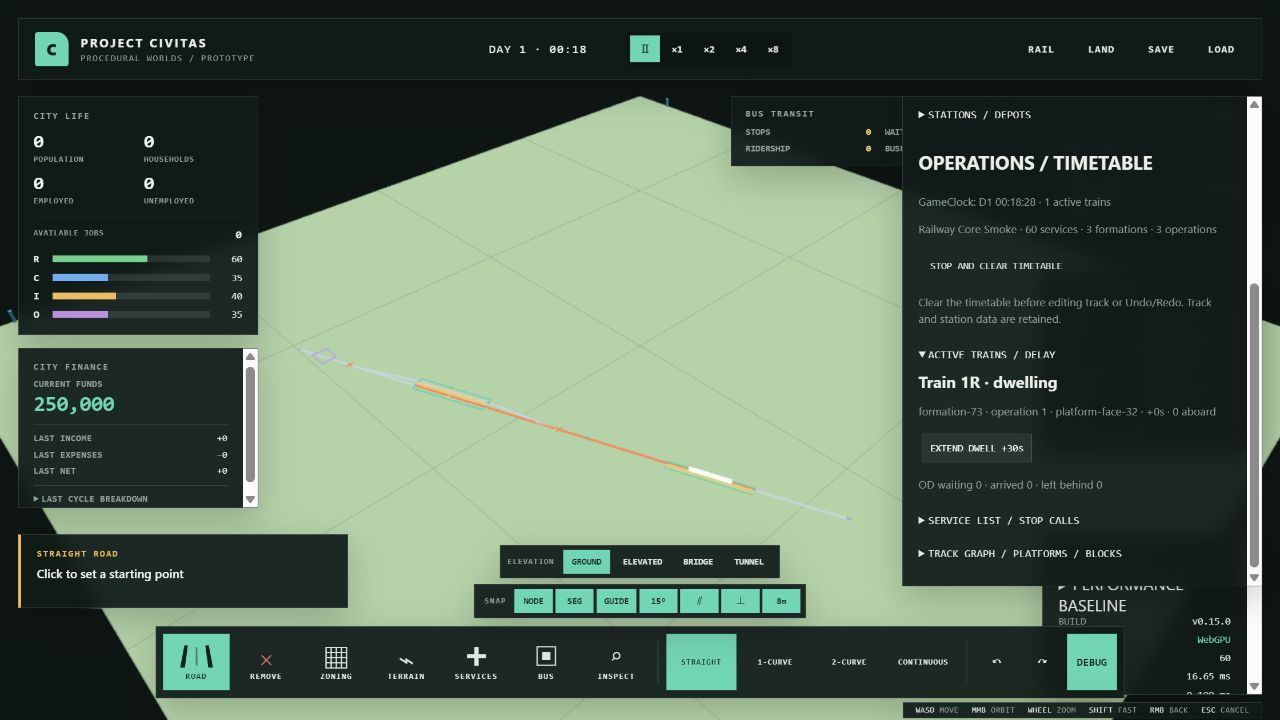
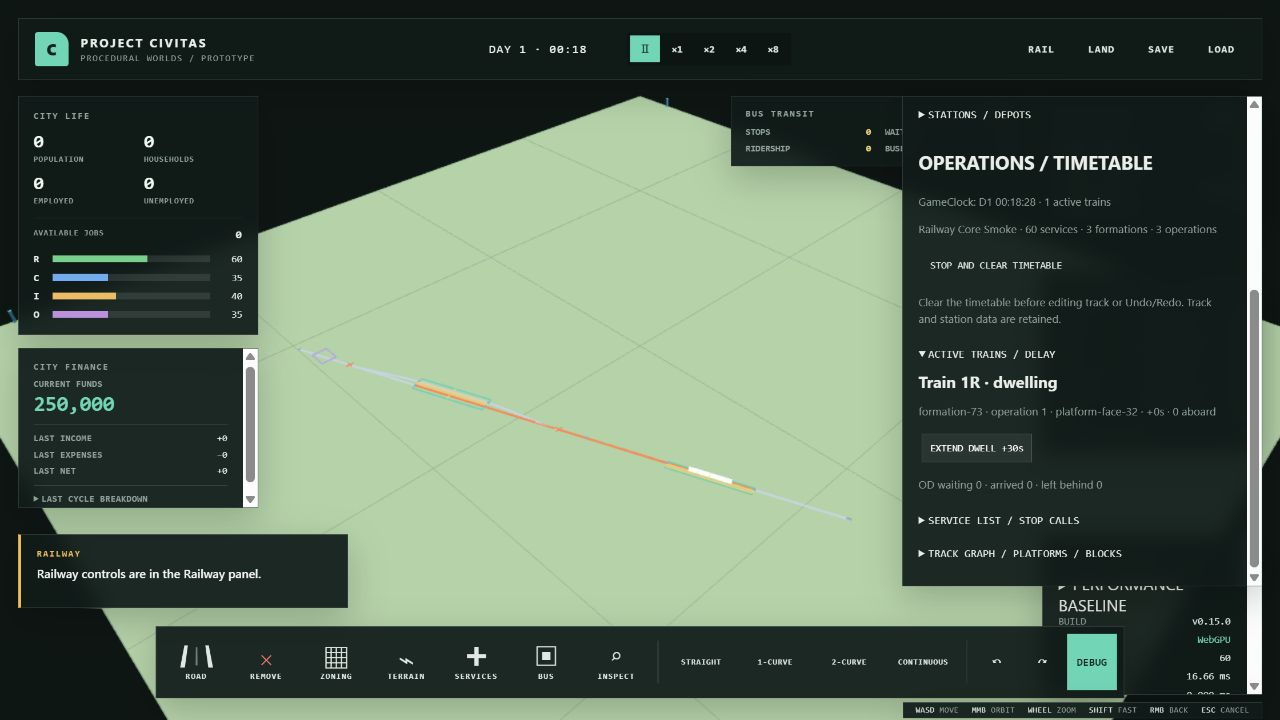
fix(railway): address review validation and cancellation regressions

Changed region(s): [[0.3438, 0.7333, 0.6562, 0.9778], [0.125, 0.8556, 0.1875, 0.9778], [0.0312, 0.7639, 0.2188, 0.825]]

diff --git a/src/railway/infrastructure.ts b/src/railway/infrastructure.ts
@@ -2,7 +2,7 @@ import { closestPointOnPolyline, distance, normalize, pointAtDistance, polylineL
 import { LandOwnership } from '../world/landOwnership';
 import type { Vec2 } from '../world/types';
 import type { TrackNode, TrackSegment, Junction, Station, Depot, RailwaySave, RailwaySnapshot, RailCommandData, RailBlock, PlatformFace } from './types';
-import { sampleTrackPath, collinearOverlap, TrackIndex, validateTrack } from './geometry';
+import { sampleTrackPath, collinearOverlap, TrackIndex, TrackEdgeIndex, validateTrack } from './geometry';
 
 export class RailwayInfrastructure {
   revision = 0;
@@ -15,6 +15,8 @@ export class RailwayInfrastructure {
   readonly depots = new Map<string, Depot>();
   readonly blocks = new Map<string, RailBlock>();
   readonly index = new TrackIndex();
+  private edges = new TrackEdgeIndex();
+  private faceIndex = new Map<string, { station: Station; face: PlatformFace; length: number }>();
   protected adjacency = new Map<string, string[]>();
   private nodeIndex = new Map<string, TrackNode[]>();
   ownership = new LandOwnership({ worldWidthMeters: 1024, worldDepthMeters: 1024 });
@@ -115,8 +117,7 @@ export class RailwayInfrastructure {
   }
   requireTrack(id: string) { const track = this.segments.get(id); if (!track) throw new Error('Track no longer exists.'); return track; }
   face(id: string): { station: Station; face: PlatformFace; length: number } {
-    for (const station of this.stations.values()) for (const platform of station.platforms) for (const face of platform.faces)
-      if (face.platformFaceId === id) return { station, face, length: platform.length };
+    const value = this.faceIndex.get(id); if (value) return value;
     throw new Error('Platform face no longer exists.');
   }
   fitsPlatform(faceId: string, formationLength: number): boolean { return Number.isFinite(formationLength) && formationLength > 0 && formationLength <= this.face(faceId).length; }
@@ -148,21 +149,16 @@ export class RailwayInfrastructure {
     const cuts = new Map<string, number[]>(), ownCuts = [0, polylineLength(points)]; let traversed = 0;
     for (let i = 1; i < points.length; i++) {
       const a = points[i - 1], b = points[i], legLength = distance(a, b);
-      for (const candidate of this.index.query(a, b)) {
-        const track = this.requireTrack(candidate.id); let along = 0;
-        for (let j = 1; j < track.points.length; j++) {
-          const c = track.points[j - 1], d = track.points[j], length = distance(c, d), hit = segmentIntersection(a, b, c, d);
-          if (collinearOverlap(a, b, c, d)) throw new Error('Track overlaps an existing track.');
-          if (hit) { ownCuts.push(traversed + legLength * hit.aT); const values = cuts.get(track.id) ?? []; values.push(along + length * hit.bT); cuts.set(track.id, values); }
-          along += length;
-        }
-        for (const endpoint of [points[0], points.at(-1)!]) {
-          const projection = closestPointOnPolyline(endpoint, track.points);
-          if (projection.distance < .01) { const values = cuts.get(track.id) ?? []; values.push(projection.along); cuts.set(track.id, values); }
-        }
-        if (track.points.some(p => closestPointOnPolyline(p, points).distance < .01) && points.every(p => closestPointOnPolyline(p, track.points).distance < .01)) throw new Error('Track overlaps an existing track.');
+      for (const edge of this.edges.query(a, b)) {
+        const [c, d] = edge.points, hit = segmentIntersection(a, b, c, d);
+        if (collinearOverlap(a, b, c, d)) throw new Error('Track overlaps an existing track.');
+        if (hit) { ownCuts.push(traversed + legLength * hit.aT); const values = cuts.get(edge.trackId) ?? []; values.push(edge.along + edge.length * hit.bT); cuts.set(edge.trackId, values); }
       }
       traversed += legLength;
+    }
+    for (const endpoint of [points[0], points.at(-1)!]) for (const track of this.index.query({ x: endpoint.x - .01, z: endpoint.z - .01 }, { x: endpoint.x + .01, z: endpoint.z + .01 })) {
+      const projection = closestPointOnPolyline(endpoint, track.points);
+      if (projection.distance < .01) { const values = cuts.get(track.id) ?? []; values.push(projection.along); cuts.set(track.id, values); }
     }
     for (const [id, values] of cuts) this.split(id, values);
     const values = this.uniqueCuts(ownCuts); const ids: string[] = [];
@@ -207,7 +203,9 @@ export class RailwayInfrastructure {
     const platforms: Station['platforms'] = [{ platformId: this.id('platform'), length, faces: [firstFace], outline: rectangle(command.template === 'island' ? 3 : -3, 1.5) }];
     const connectedTrackIds = [base];
     if (command.template !== 'single') {
-      const second = this.add([at(from, 6), at(to, 6)], track.trackTypeId); connectedTrackIds.push(second);
+      const parallel = [at(from, 6), at(to, 6)];
+      validateTrack(parallel, track.trackTypeId, this.height, this.ownership, this.waterAt);
+      const second = this.add(parallel, track.trackTypeId); connectedTrackIds.push(second);
       for (const approach of [true, false]) {
         const points = Array.from({ length: 21 }, (_, i) => { const t = i / 20, smooth = t * t * (3 - 2 * t); return approach ? at(from - 80 + t * 80, smooth * 6) : at(to + t * 80, (1 - smooth) * 6); });
         validateTrack(points, track.trackTypeId, this.height, this.ownership, this.waterAt); this.add(points, track.trackTypeId);
@@ -223,6 +221,8 @@ export class RailwayInfrastructure {
     this.nodeIndex.clear(); for (const node of this.nodes.values()) { const key = `${Math.round(node.position.x * 100)}:${Math.round(node.position.z * 100)}`, bucket = this.nodeIndex.get(key) ?? []; bucket.push(node); this.nodeIndex.set(key, bucket); }
     this.adjacency.clear(); for (const track of this.segments.values()) for (const node of [track.startNodeId, track.endNodeId]) { const ids = this.adjacency.get(node) ?? []; ids.push(track.id); this.adjacency.set(node, ids); }
     this.index.rebuild(this.segments.values());
+    this.edges.rebuild(this.segments.values());
+    this.faceIndex.clear(); for (const station of this.stations.values()) for (const platform of station.platforms) for (const face of platform.faces) this.faceIndex.set(face.platformFaceId, { station, face, length: platform.length });
   }
   protected resourceIds(): Set<string> { return new Set([...this.segments.keys(), ...this.junctions.keys(), ...[...this.stations.values()].flatMap(s => s.platforms.flatMap(p => p.faces.map(f => f.platformFaceId)))]); }
   protected reconcile(): void {

diff --git a/src/railway/system.ts b/src/railway/system.ts
@@ -30,7 +30,7 @@ export class RailwaySystem extends RailwayInfrastructure {
   private arrivedPassengers = 0;
   private leftBehind = 0;
   processedEvents = 0;
-  get hasOperations() { return this.services.size > 0; }
+  get hasOperations() { return this.services.size > 0 || this.timetable.lines.length > 0; }
   override mutate(command: RailCommandData): string[] {
     if (this.hasOperations) throw new Error('Stop and clear railway operations before changing infrastructure.');
     if ([...this.blocks.values()].some(b => b.occupancyOwner || b.reservationOwner)) throw new Error('Release occupied/reserved railway resources before editing.');
@@ -87,13 +87,15 @@ export class RailwaySystem extends RailwayInfrastructure {
         || state.actualCalls.some((call, i) => call.sequence !== i || [call.arrivalTime, call.departureTime, call.passTime].some(time => time !== undefined && (!integer(time) || time > data.now)))) throw new Error('Invalid saved rail progress.');
       this.progress.set(state.serviceId, structuredClone(state));
     }
+    const waitingActivationFormations = new Set([...this.waits.values()].filter(w => w.event.type === 'activate').map(w => this.operations.get(w.event.operationId)!.assignedFormationId));
     for (const formation of this.formations.values()) {
       const train = this.trains.get(formation.formationId);
       if (train && (formation.currentServiceId !== train.serviceId || formation.currentFaceId !== train.faceId || formation.state !== (train.state === 'dwelling' ? 'waiting' : train.state))) throw new Error('Formation state disagrees with its active train.');
-      if (!train && formation.state !== 'depot' && ![...this.waits.values()].some(w => w.event.type === 'activate' && this.operations.get(w.event.operationId)?.assignedFormationId === formation.formationId)) throw new Error('Formation lacks an operation event.');
+      if (!train && formation.state !== 'depot' && !waitingActivationFormations.has(formation.formationId)) throw new Error('Formation lacks an operation event.');
     }
+    const resourcesByTrain = new Map([...this.trains].map(([id, train]) => [id, new Set(train.resources)]));
     for (const block of this.blocks.values()) for (const owner of [block.occupancyOwner, block.reservationOwner]) if (owner) {
-      const train = this.trains.get(owner); if (!train || !train.resources.includes(block.id)) throw new Error('Rail resource has an orphaned owner.');
+      if (!resourcesByTrain.get(owner)?.has(block.id)) throw new Error('Rail resource has an orphaned owner.');
     }
     for (const train of this.trains.values()) if (train.resources.some(id => { const block = this.blocks.get(id)!; return block.occupancyOwner !== train.formationId && block.reservationOwner !== train.formationId; })) throw new Error('Train is missing its block ownership.');
     for (const group of data.passengers) this.addPassengers(group);
@@ -157,6 +159,7 @@ export class RailwaySystem extends RailwayInfrastructure {
       for (const item of items) { const key = id(item); if (typeof key !== 'string' || !key.trim() || key.length > 128 || map.has(key)) throw new Error('Invalid or duplicate rail timetable ID.'); map.set(key, item); } return map;
     };
     const lines = collection(data.lines, l => l.id, 100), serviceTypes = collection(data.serviceTypes, s => s.id, 100), types = collection(data.formationTypes, t => t.id, 100), formations = collection(data.formations, f => f.formationId, 512), services = collection(data.services, s => s.id, 5000);
+    const lineStations = new Map([...lines].map(([id, line]) => [id, new Set(line.stationIds)]));
     collection(data.operations, o => o.operationId, 512);
     for (const line of lines.values()) if (!line.name?.trim() || !/^#[\da-f]{6}$/i.test(line.color) || !Array.isArray(line.stationIds) || line.stationIds.some(id => !this.stations.has(id))) throw new Error('Invalid rail line.');
     for (const type of serviceTypes.values()) if (!type.name?.trim() || !['local', 'rapid', 'express', 'limited-express', 'deadhead', 'other'].includes(type.kind)) throw new Error('Invalid rail service type.');
@@ -184,7 +187,7 @@ export class RailwaySystem extends RailwayInfrastructure {
           || s.origin !== s.stopCalls[0].stationId || s.destination !== s.stopCalls.at(-1)!.stationId) throw new Error('Invalid TrainService.');
         for (let i = 0; i < s.stopCalls.length; i++) {
           const call = s.stopCalls[i], face = this.face(call.platformFaceId), prev = s.stopCalls[i - 1];
-          if (call.sequence !== i || face.station.stationId !== call.stationId || !line.stationIds.includes(call.stationId) || !integer(call.arrivalTime) || !integer(call.departureTime)
+          if (call.sequence !== i || face.station.stationId !== call.stationId || !lineStations.get(s.lineId)!.has(call.stationId) || !integer(call.arrivalTime) || !integer(call.departureTime)
             || call.departureTime < call.arrivalTime || !['stop', 'pass'].includes(call.stopType) || call.stopType === 'pass' && call.arrivalTime !== call.departureTime
             || prev && call.arrivalTime < prev.departureTime || !restoring && i === 0 && call.arrivalTime < now || call.stopType === 'stop' && !this.fitsPlatform(call.platformFaceId, type.length)) throw new Error('Invalid StopCall timing, station or platform length.');
           if (prev) { if (prev.platformFaceId === call.platformFaceId) throw new Error('Consecutive StopCalls need distinct platform faces.'); const key = `${prev.platformFaceId}|${call.platformFaceId}|${type.id}`; if (!routes.has(key)) routes.set(key, railRoute(this, prev.platformFaceId, call.platformFaceId, type)); }
@@ -194,6 +197,7 @@ export class RailwaySystem extends RailwayInfrastructure {
       }
     }
     if (assignedServices.size !== services.size || services.size && !data.operations.length) throw new Error('Every TrainService must be assigned to an Operation.');
+    if (assignedFormations.size !== formations.size) throw new Error('Every Formation must be assigned to an Operation.');
   }
   private frequency(input: FrequencyInput, now: number): RailTimetable {
     if (!input.name?.trim() || !integer(input.start) || !integer(input.end) || !integer(input.frequency) || input.frequency < 1 || input.end <= input.start

diff --git a/tests/railInfrastructure.test.ts b/tests/railInfrastructure.test.ts
@@ -1,13 +1,31 @@
 import { describe, expect, it } from 'vitest';
 import { SimulationState } from '../src/simulation/state';
 import { RailwayInfrastructure } from '../src/railway/infrastructure';
-import { trackGeometry } from '../src/railway/geometry';
+import { trackGeometry, TrackEdgeIndex } from '../src/railway/geometry';
 import { LandOwnership, defaultLandOwnership } from '../src/world/landOwnership';
 import { createWorldMetadata } from '../src/world/metadata';
 import type { StationTemplate, TrackMode } from '../src/railway/types';
 import { railwayFixture } from './fixtures/railway';
 
 describe('Railway Infrastructure authority', () => {
+  it.each(['double', 'island'] as StationTemplate[])('rejects %s parallel track crossing side water or steep terrain atomically', template => {
+    const rail = new RailwayInfrastructure(); rail.mutate({ type: 'build-track', input: { points: [{ x: -400, z: 0 }, { x: 400, z: 0 }], trackTypeId: 'standard' } });
+    const before = rail.save(), track = [...rail.segments.values()][0];
+    const command = { type: 'place-station' as const, name: 'Side validation', trackSegmentId: track.id, offset: 400, length: 120, template };
+    // Existing centerline, platform/boundary corners and both approaches stay valid.
+    rail.waterAt = (x, z) => Math.abs(x) < 10 && Math.abs(z - 6) < 1;
+    expect(() => rail.mutate(command)).toThrow(/water/); expect(rail.save()).toEqual(before);
+    rail.waterAt = () => false; rail.height = (x, z) => Math.abs(x) < 10 && Math.abs(z - 6) < 1 ? 10 : 0;
+    expect(() => rail.mutate(command)).toThrow(/grade/); expect(rail.save()).toEqual(before);
+  });
+  it('bounds intersection candidates locally on a 16km sampled track', () => {
+    const index = new TrackEdgeIndex(), points = Array.from({ length: 4001 }, (_, i) => ({ x: i * 4 - 8000, z: 0 }));
+    index.rebuild([{ id: 'long-track', points }]);
+    let queries = 0, candidates = 0;
+    for (let x = -8000; x < 8000; x += 4) { queries++; candidates += index.query({ x, z: 2 }, { x: x + 4, z: 2 }).length; }
+    expect(candidates / queries).toBeLessThan(70);
+    expect(index.query({ x: -1, z: -4 }, { x: 1, z: 4 }).every(e => Math.abs(e.points[0].x) <= 132)).toBe(true);
+  });
   it('keeps road/track graphs independent and creates snapped branch connectivity/switch direction', () => {
     const state = new SimulationState();
     state.execute({ type: 'build-track', input: { points: [{ x: -200, z: 0 }, { x: 200, z: 0 }], trackTypeId: 'standard' } });

diff --git a/tests/railOperations.test.ts b/tests/railOperations.test.ts
@@ -82,6 +82,21 @@ describe('event-driven railway operations', () => {
     data.services[0].stopCalls[0].stopType = 'pass';
     expect(() => state.execute({ type: 'set-rail-timetable', timetable: data })).toThrow(/StopCall/);
   });
+  it('rejects unassigned formations and preserves a loadable city/depot', () => {
+    const state = railwayFixture(), data = opposing(state), before = state.railway.save();
+    data.services = []; data.operations = [];
+    expect(() => state.execute({ type: 'set-rail-timetable', timetable: data })).toThrow(/Every Formation/);
+    expect(state.railway.save()).toEqual(before);
+    state.execute({ type: 'remove-railway', kind: 'depot', id: [...state.railway.depots.keys()][0] });
+    const loaded = new SimulationState(); loaded.load(state.serialize()); expect(loaded.railway.depots.size).toBe(0);
+  });
+  it('protects station references even for a line-only advanced timetable', () => {
+    const state = railwayFixture(), data = opposing(state); data.services = []; data.formations = []; data.operations = [];
+    state.execute({ type: 'set-rail-timetable', timetable: data });
+    expect(() => state.execute({ type: 'remove-railway', kind: 'station', id: data.lines[0].stationIds[0] })).toThrow(/clear/);
+    const loaded = new SimulationState(); loaded.load(state.serialize()); expect(loaded.railway.hasOperations).toBe(true);
+    state.execute({ type: 'clear-rail-operations' }); state.execute({ type: 'remove-railway', kind: 'station', id: data.lines[0].stationIds[0] });
+  });
   it('records late arrival caused by physical travel time rather than teleporting', () => {
     const state = railwayFixture(), data = opposing(state); data.services.splice(1); data.formations.splice(1); data.operations.splice(1);
     data.services[0].stopCalls[1].arrivalTime = 31; data.services[0].stopCalls[1].departureTime = 51;

diff --git a/tests/railConstruction.test.ts b/tests/railConstruction.test.ts
@@ -4,6 +4,7 @@ import type { GameRenderer } from '../src/renderer/gameRenderer';
 import type { SimulationClient } from '../src/app/simulationClient';
 import type { RailCommandData } from '../src/railway/types';
 import { SimulationState } from '../src/simulation/state';
+import { GameRuntime } from '../src/app/gameRuntime';
 
 afterEach(() => vi.unstubAllGlobals());
 describe('railway construction interaction', () => {
@@ -29,5 +30,12 @@ describe('railway construction interaction', () => {
     client.execute.mockImplementationOnce(() => new Promise(r => { resolve = r as typeof resolve; }));
     controller.trackMode = 'continuous'; controller.setEnabled(true); await click(-200, -200); await click(100, -200); await click(200, 200);
     controller.cancel(); resolve({ ok: true }); await Promise.resolve(); await click(0, 400); expect(commands).toHaveLength(0); controller.dispose();
+  });
+  it.each(['cancelConstruction', 'undo', 'redo'] as const)('%s clears railway anchors through the shared runtime path', async method => {
+    const { controller, click, commands } = setup(); controller.setEnabled(true); await click(-200, 0);
+    const runtime = Object.create(GameRuntime.prototype) as GameRuntime;
+    Object.assign(runtime, { construction: { cancel: vi.fn() }, railConstruction: controller, simulation: { undo: vi.fn(), redo: vi.fn() } });
+    runtime[method](); await click(200, 0); expect(commands).toHaveLength(0);
+    await click(400, 0); expect(commands).toHaveLength(1); controller.dispose();
   });
 });

diff --git a/src/ui/RailwayOperations.tsx b/src/ui/RailwayOperations.tsx
@@ -23,7 +23,7 @@ export function RailwayOperations({ simulation, snapshot, onCreate }: { simulati
   return <section aria-label="Railway operations">
     <h3>OPERATIONS / TIMETABLE</h3>
     <p>GameClock: {railTime(snapshot.gameClock.gameSeconds)} · {runtime?.activeTrains.length ?? 0} active trains</p>
-    {!operations?.services.length ? <details open><summary>CREATE FREQUENCY SERVICE</summary>
+    {!(operations?.services.length || operations?.lines.length) ? <details open><summary>CREATE FREQUENCY SERVICE</summary>
       <label>LINE NAME<input aria-label="Rail line name" value={name} onInput={e => setName(e.currentTarget.value)} /></label>
       <label>SERVICE TYPE<select aria-label="Rail service type" value={type} onChange={e => setType(e.currentTarget.value)}>{RAIL_SERVICE_TYPES.map(t => <option value={t.id}>{t.name}</option>)}</select></label>
       <label>FORMATION<select aria-label="Rail formation type" value={formation} onChange={e => setFormation(e.currentTarget.value)}>{FORMATION_TYPES.map(t => <option value={t.id}>{t.name} · {t.length}m · {t.capacity} people</option>)}</select></label>

diff --git a/src/railway/geometry.ts b/src/railway/geometry.ts
@@ -72,3 +72,18 @@ export class TrackIndex {
       for (let z = Math.floor(Math.min(a.z, b.z) / 128); z <= Math.floor(Math.max(a.z, b.z) / 128); z++) yield `${x}:${z}`;
   }
 }
+
+/** Fine geometry candidates for intersections; a long polyline is never re-scanned per new sample. */
+export class TrackEdgeIndex {
+  private index = new TrackIndex();
+  private edges = new Map<string, { trackId: string; along: number; length: number; points: Vec2[] }>();
+  rebuild(tracks: Iterable<{ id: string; points: Vec2[] }>) {
+    this.edges.clear(); const values: Array<{ id: string; points: Vec2[] }> = [];
+    for (const track of tracks) { let along = 0; for (let i = 1; i < track.points.length; i++) {
+      const id = `${track.id}:${i}`, points = [track.points[i - 1], track.points[i]], length = distance(points[0], points[1]);
+      this.edges.set(id, { trackId: track.id, along, length, points }); values.push({ id, points }); along += length;
+    } }
+    this.index.rebuild(values);
+  }
+  query(a: Vec2, b: Vec2) { return this.index.query(a, b).map(edge => this.edges.get(edge.id)!); }
+}

diff --git a/src/railway/routing.ts b/src/railway/routing.ts
@@ -57,7 +57,8 @@ export function railRoute(rail: RailwayInfrastructure, fromFace: string, toFace:
     if (target) {
       parts = [target.part]; if (target.junction) junctionIds.push(target.junction);
       let key: string | undefined = target.key;
-      while (key) { const step: { key?: string; part: Part; junction?: string } = previous.get(key)!; parts.unshift(step.part); if (step.junction) junctionIds.push(step.junction); key = step.key; }
+      while (key) { const step: { key?: string; part: Part; junction?: string } = previous.get(key)!; parts.push(step.part); if (step.junction) junctionIds.push(step.junction); key = step.key; }
+      parts.reverse();
     }
   }
   if (!parts) throw new Error('No connected rail route respecting gauge and switches.');

diff --git a/src/app/gameRuntime.ts b/src/app/gameRuntime.ts
@@ -85,13 +85,13 @@ export class GameRuntime {
   setTerrainBrush(size: number, strength: number): void { this.construction.setTerrainBrush(size, strength); }
   setTerrainPreset(preset: TerrainPreset): void { this.construction.setTerrainPreset(preset); }
   toggleSnap(setting: SnapSettingKey): void { this.construction.toggleSnap(setting); }
-  cancelConstruction(): void { this.construction.cancel(); }
+  cancelConstruction(): void { this.construction.cancel(); this.railConstruction.cancel(); }
   undo(): void {
-    this.construction.cancel();
+    this.cancelConstruction();
     this.simulation.undo();
   }
   redo(): void {
-    this.construction.cancel();
+    this.cancelConstruction();
     this.simulation.redo();
   }
   toggleDebug(): boolean {

diff --git a/docs/railway-core.md b/docs/railway-core.md
@@ -36,6 +36,8 @@ Verification covers deterministic Save resumes during dwell, running, blocked re
 
 ## Scope
 
-Final Phase 2 gates: `npm test` **331 tests / 44 files passed**; `npm run build` passed. The existing Vite warning for a >500kB Babylon-related chunk remains. Railway changes add no browser warning/error in the smoke run. Screenshot: `docs/screenshots/railway-core.png`.
+Final gates after review fixes: `npm test` **339 tests / 44 files passed**; `npm run build` passed. The existing Vite warning for a >500kB Babylon-related chunk remains. Railway changes add no browser warning/error in the smoke run. Screenshot: `docs/screenshots/railway-core.png`.
+
+Codex Review's three P2 findings were addressed with regressions: validate the additional double/island station centerline against side water/grade, cancel the railway controller in common Load/Undo/Redo paths, and reject Formations without an Operation. Line-only advanced definitions also freeze referenced infrastructure until cleared. In the production browser, a one-point alignment → Load → next click correctly became a new **Point 1/2**, without creating a track from the old point; Console warnings/errors remained empty. Fine geometry edges, platform-face lookup, saved owner membership and route reconstruction also use indexes/sets or linear reconstruction to avoid repeated whole-path/model scans.
 
 No OuDiaSecond converter, coupling/splitting, full interlocking, ATS/ATC, crew scheduling, detailed depot shunting, rail bridges/tunnels or new GIS imports. Internal stable railway IDs, integer game-second calls and separate services/formations/operations will allow a future #10 adapter.
